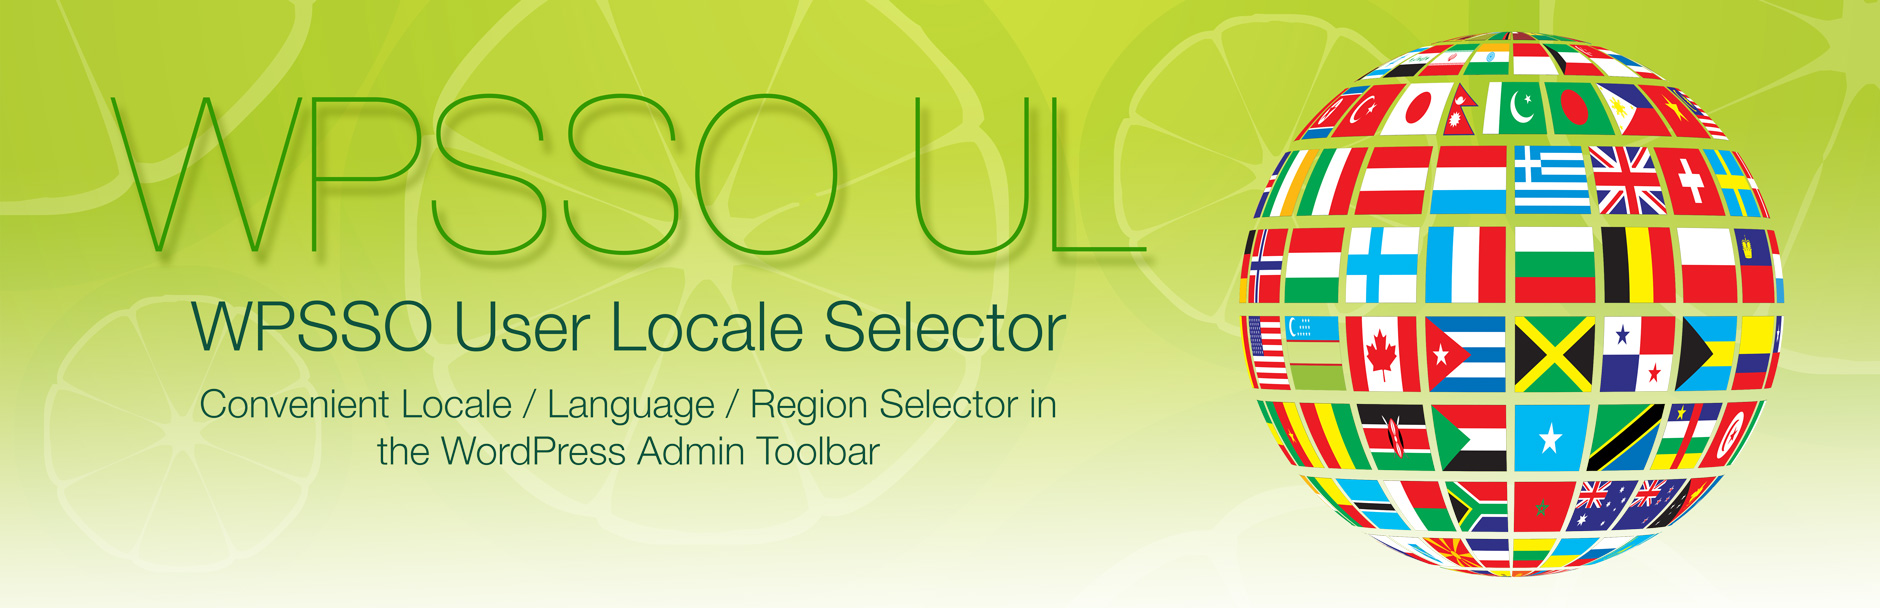
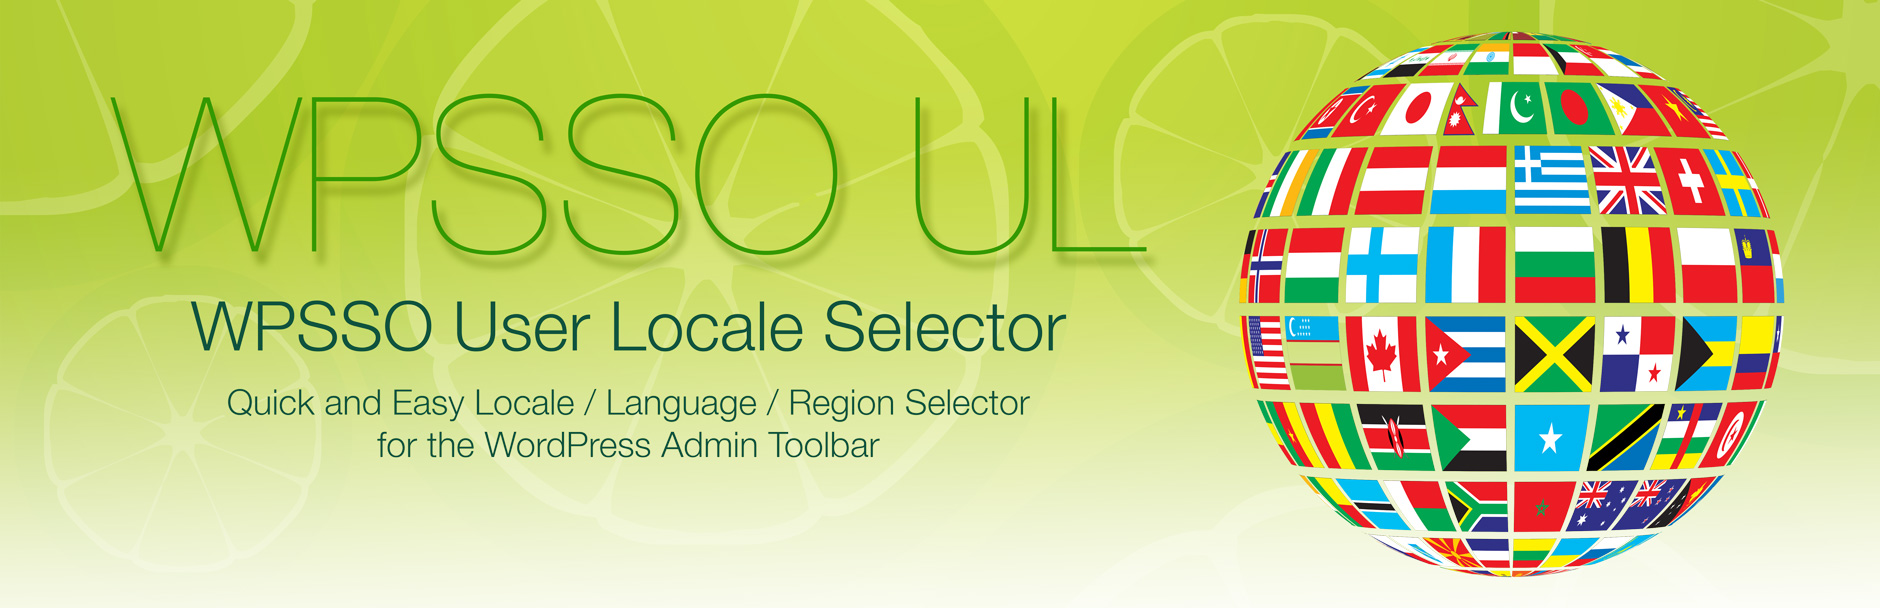
non-essential support files (documentation and assets)

Changed region(s): [[0.0926, 0.625, 0.5553, 0.7812]]

diff --git a/index.html b/index.html
@@ -29,7 +29,7 @@
 
 <table>
 <tr><th align="right" valign="top" nowrap>Plugin Name</th><td>WPSSO User Locale Selector</td></tr>
-<tr><th align="right" valign="top" nowrap>Summary</th><td>Quick and easy locale / language / region selector for the WordPress admin toolbar.</td></tr>
+<tr><th align="right" valign="top" nowrap>Summary</th><td>Quick and Easy Locale / Language / Region Selector for the WordPress Admin Toolbar.</td></tr>
 <tr><th align="right" valign="top" nowrap>Stable Version</th><td>2.0.3</td></tr>
 <tr><th align="right" valign="top" nowrap>Requires PHP</th><td>5.6 or newer</td></tr>
 <tr><th align="right" valign="top" nowrap>Requires WordPress</th><td>4.7 or newer</td></tr>
